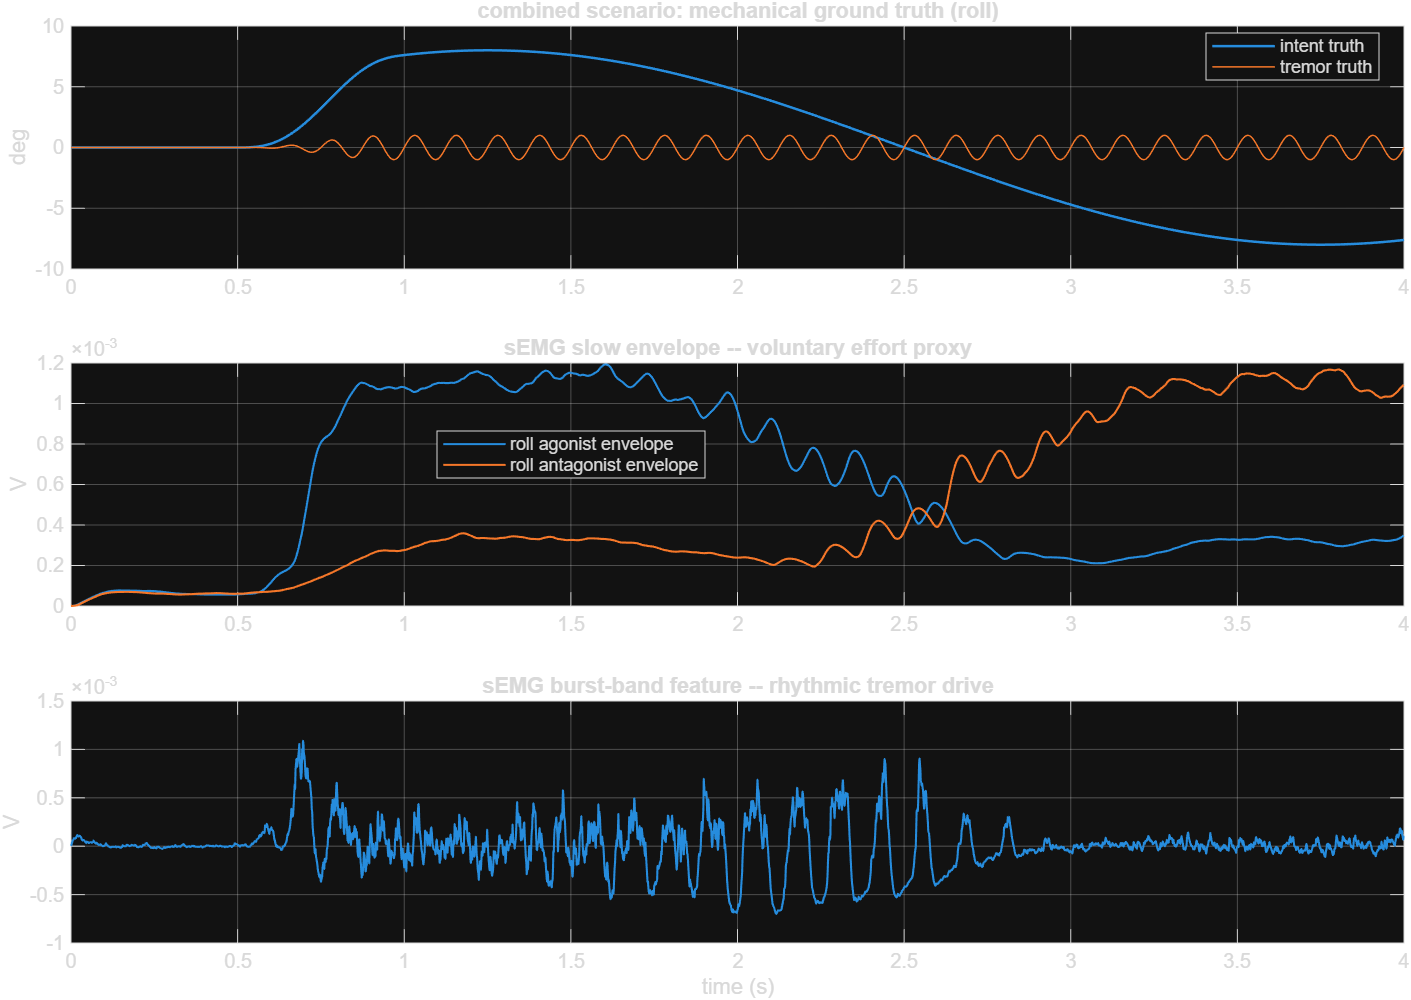
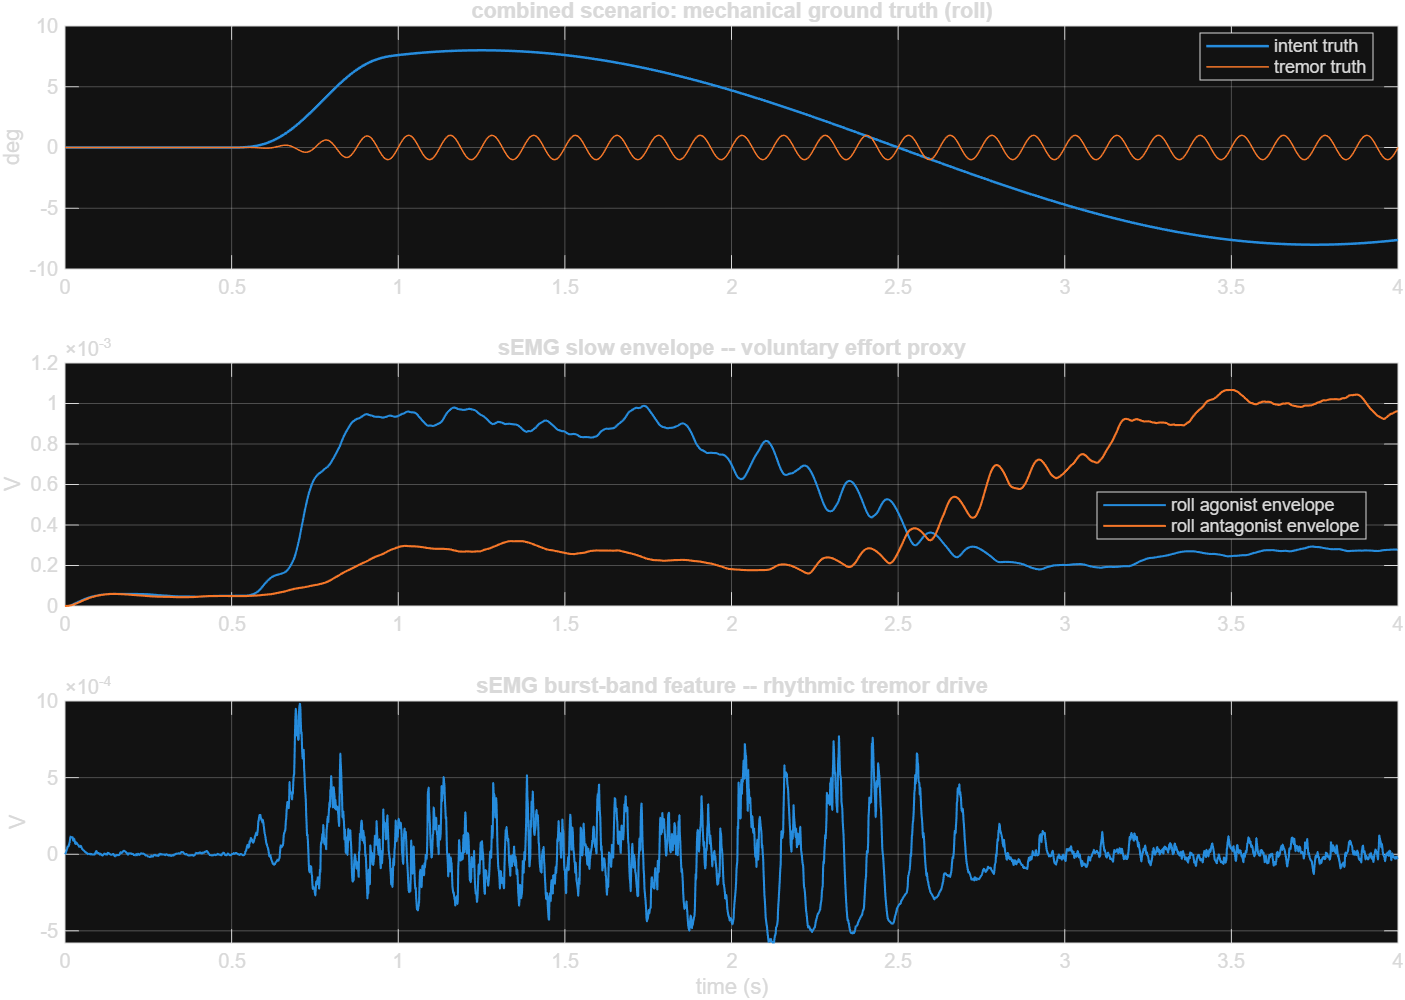
Document the anti-alias stage and the real-dataset format; regenerate results
SEMG_SUBSYSTEM.md 4.2 changes from a gap to a resolved item, and gains 6: the
dataset field contract, the minimum useful dataset, the recording protocol, how
to run the gate, and the thresholds with their synthetic reference values.

Characterisation regenerated after the anti-alias change. SNR 8.0-12.7 dB, lead
35-37.5 ms, burst frequency 7.81-9.38 Hz against a true 8 Hz, separation 8.1x --
unchanged in substance from the pre-filter numbers.

One caveat is recorded prominently rather than buried: the stage-3 cross-talk
reference of |r| = 0.19 is an artefact, not a prediction. The synthetic source
generates channels independently, so it assumes zero cross-talk, while the
agonist/antagonist feature layout rests on reciprocal activation and real
forearm flexors and extensors are closely packed. That stage is the one most
likely to disappoint on real data.

Claude-Session: https://claude.ai/code/session_01XLS5UqoszvcAKReYU6rwD3

diff --git a/docs/SEMG_SUBSYSTEM.md b/docs/SEMG_SUBSYSTEM.md
@@ -167,11 +167,15 @@ sensor module that outputs a pre-rectified envelope (several hobby modules do by
 destroys the burst feature, because rectification must happen after the mains notch and at
 full bandwidth.
 
-> **Gap:** the anti-alias filter is a hardware requirement with **no counterpart in the
-> model**. `rcflex_semg_sample.m` models AC coupling and the ADC but no anti-alias stage,
-> because the synthetic truth is band-limited to 450 Hz by construction and has nothing to
-> alias. Real EMG has content above 450 Hz and the amplifier contributes wideband noise. See
-> §4.2.
+> **Modelled.** `rcflex_semg_sample.m` now implements the anti-alias stage: a 2-pole
+> Butterworth at `C.semg_aa_Hz` = 480 Hz, applied after the gain stage and before sampling.
+>
+> For it to mean anything, the analogue domain is modelled at `C.semg_hz * C.semg_oversample`
+> = 16 kHz and decimated to 4 kHz *after* the filter. Generating straight at 4 kHz would have
+> assumed the band limiting this stage exists to enforce, leaving a decorative block that
+> could never be shown to earn its place. Measured effect of enabling it, on the `combined`
+> scenario: out-of-band residual **8147 → 3126 nV/√Hz** (−8.3 dB) and in-band power fraction
+> **0.756 → 0.908**.
 
 ### 1.8 Synchronisation requirements
 
@@ -345,7 +349,7 @@ recording from a person, including your own arm.
 | `C.semg_ac_couple_Hz = 10` | AC coupling **before** gain | ✅ modelled |
 | `C.semg_gain = 200` | analogue gain | ✅ fixed; zero clipping, 1.6–7.5 dB headroom |
 | AC-coupling settled at start | front end powered up before capture | ✅ fixed; see §1.4 |
-| — | **analogue anti-alias filter** | ❌ **§4.2 — absent from the model** |
+| `C.semg_aa_Hz`, `C.semg_aa_poles` | analogue anti-alias filter | ✅ modelled, with a 4× oversampled analogue domain so it has real out-of-band content to remove |
 | `C.semg_adc_bits/_range_V` | ADC | ✅ modelled, with saturation |
 | `C.semg_hz`, `C.semg.sub` | sample clock and tick alignment | ✅ modelled and asserted |
 | `rcflex_semg_source.m` | the acquisition boundary | ✅ seam exists; `'device'` not implemented |
@@ -363,17 +367,21 @@ class of acquisition defect, so such defects have to be caught by an explicit ch
 than by noticing bad results. That is what `rcflex_semg_quality` is for, and it is why §5.1
 runs first on any real recording.
 
-### 4.2 Missing anti-alias stage
+### 4.2 Anti-alias stage — resolved
 
-`rcflex_semg_sample.m` has no anti-alias filter because the synthetic truth is band-limited
-to 450 Hz and nothing can alias. Real acquisition can and will. Consequence: the model
-currently cannot show what aliasing would do to the features, so it cannot be used to
-justify skipping the analogue filter. Adding a 2-pole 480 Hz stage before the ADC in
-`rcflex_semg_sample.m` would close this and is cheap; it is not required until real data
-arrives, but the hardware requirement stands regardless.
+The chain in `rcflex_semg_sample.m` is now, in physical order:
 
-`rcflex_semg_quality`'s `oob_nV_rtHz` column is the field diagnostic for this: on real data,
-a value far above the amplifier's datasheet noise density means the anti-alias filter is too
+```
+electrode -> corruptions -> AC coupling -> gain -> anti-alias -> decimate -> quantise/clip
+```
+
+Two of those orderings are requirements, not preferences: AC coupling before gain (§1.5),
+and anti-aliasing before sampling. The analogue domain is modelled at 4× the final rate so
+the filter has genuine content above the 2 kHz final Nyquist to remove — the truth
+generator's 450 Hz band limit is only 2-pole, and the corruption noise is white.
+
+`rcflex_semg_quality`'s `oob_nV_rtHz` column remains the field diagnostic: on real data, a
+value far above the amplifier's datasheet noise density means the anti-alias filter is too
 shallow.
 
 ### 4.3 What is already source-agnostic
@@ -470,6 +478,100 @@ change the estimator last.
 
 None of these carry synchronised IMU tremor data with intent labels, which is why §5.5 and
 §5.7 ultimately need our own recording.
+
+---
+
+## 6. Running a real dataset through the pipeline
+
+The recorded-data path is implemented and tested; only the data is missing.
+
+### 6.1 Dataset format
+
+Defined in one place — `rcflex_semg_dataset_spec.m`. Call it with no arguments to get the
+contract as a struct, so a recording or conversion script can target it directly.
+
+**Required**
+
+| Field | Type | Notes |
+|---|---|---|
+| `semg` | n × 4 double | **Electrode-referred volts.** Not ADC counts, not gain-included. Convert with `volts = counts * (adc_range/2^bits) / gain` |
+| `fs` | scalar | Hz. Must be ≥ 900 Hz (= 2 × 450); anything else is regridded to 4 kHz by the loader |
+
+Channel order is `[roll agonist, roll antagonist, pitch agonist, pitch antagonist]`
+= `[FCR, ECRL/B, FCU, ECU]` for the placement in §1.9.
+
+**Optional — each unlocks specific validation stages**
+
+| Field | Unlocks | Notes |
+|---|---|---|
+| `imu_accel` (m × 2), `imu_fs` | stages 4, 5 | Tremor **acceleration**, [roll pitch]. Units arbitrary but consistent — both stages are scale-invariant |
+| `labels` (`t_start`, `t_end`, `class`) | stages 2, 6 | `class` ∈ `rest` / `tremor` / `intent` / `both` |
+| `t0`, `channels`, `subject`, `session`, `device`, `notes` | — | Provenance |
+
+The spec actively rejects the mistakes a real dataset will actually make: a transposed
+matrix, gain-included or ADC-count units (peak |semg| ≥ 0.1 V), the wrong channel count, a
+sample rate below the band requirement, and invalid label classes. Each is covered by
+`tests/test_rcflex_semg_dataset.m`.
+
+### 6.2 Minimum useful dataset
+
+`semg` + `fs` alone runs **stages 1 and 3**. Adding `labels` with at least one tremor-bearing
+and one tremor-free segment adds the **stage 2 go/no-go**. Adding `imu_accel` adds **stages 4
+and 5**, which are the two that decide whether sEMG carries anything the IMU does not.
+
+Nothing here needs a full labelled corpus to start. A public dataset with no IMU and no
+labels still answers the two most likely reasons for early failure — bad acquisition and
+cross-talk.
+
+### 6.3 Recording protocol
+
+Stages 2 and 6 compare conditions, so a single continuous recording of one condition cannot
+answer them — the gate reports SKIPPED rather than inventing a comparison. Record **cued
+trials in one continuous session** with boundaries logged as they happen:
+
+| Trial | Class | Purpose |
+|---|---|---|
+| Rest, arm supported | `rest` | Noise floor and the stage-2 denominator |
+| Tremor, no voluntary motion | `tremor` | Stage-2 numerator; stages 4, 5 |
+| Voluntary reaching, no tremor | `intent` | Stage-6 denominator |
+| Both together | `both` | The operating condition |
+| Isolated flexion, then isolated extension | `intent` | Stage 3 — this is what actually exercises cross-talk |
+
+Logging boundaries by cue at record time is far more reliable than labelling after the fact.
+`protocol_fixture` in `tests/test_rcflex_semg_dataset.m` builds exactly this shape from
+synthetic trials and is the template.
+
+### 6.4 Running it
+
+```matlab
+C = rcflex_control_parameters; C.semg_enabled = true;
+C = rcflex_prepare_control(C);
+R = validate_rcflex_semg_dataset('my_recording.mat', C);
+```
+
+Stages report `PASS`, `FAIL` or **`SKIPPED`**. `SKIPPED` is deliberately distinct from
+`PASS`: a stage that could not run has told you nothing, and reading an absent measurement as
+a satisfied one is the single most expensive mistake available at this point. Results are
+written to `output/results/semg_dataset_validation.csv`.
+
+The synthetic source can be pushed through the identical gate as a control — pass a scenario
+struct from `rcflex_control_case` instead of a dataset.
+
+### 6.5 Thresholds, and what they are read against
+
+| Stage | Criterion | Synthetic reference |
+|---|---|---|
+| 1 Acquisition health | clip < 0.1 %, headroom ≥ 0 dB, band_frac > 0.5, mains < −6 dB | 0 % clip, 4.6–6.3 dB, 0.89–0.90, −12.9 dB |
+| 2 Burst SNR | **> 6 dB** | 8.5 dB (protocol), 8.0–12.7 dB (per-scenario) |
+| 3 Paired cross-talk | \|r\| < 0.6 | 0.19 — but the model **assumes zero cross-talk**, so this reference is not evidence |
+| 4 sEMG lead | 10–100 ms | +35 ms |
+| 5 Frequency agreement | < 1 Hz | 0 Hz |
+| 6 Intent/tremor discrimination | burst/envelope ratio > 2 | 11.0 |
+
+Stage 3 is the one to watch. The synthetic channels are generated independently, so its
+reference value is an artefact of that assumption rather than a prediction. Real forearm
+flexors and extensors are closely packed, and the agonist/antagonist feature layout rests on
+reciprocal activation.
 
 ---
 

diff --git a/docs/CONTROL_IMPROVEMENT_PLAN.md b/docs/CONTROL_IMPROVEMENT_PLAN.md
@@ -634,9 +634,16 @@ Every conclusion below was unchanged by the fixes. That is itself evidence that 
 are robust to acquisition defects, and therefore that such defects must be caught by an
 explicit check (`rcflex_semg_quality`) rather than by noticing bad results.
 
-One requirement remains unmodelled: there is no analogue anti-alias stage, because the
-synthetic source is band-limited by construction and cannot alias. The hardware requirement
-stands regardless; see `SEMG_SUBSYSTEM.md` §4.2.
+The anti-alias stage is now modelled too. `rcflex_semg_sample.m` applies a 2-pole 480 Hz
+filter after the gain stage and before sampling, with the analogue domain modelled at 4× the
+final rate and decimated afterwards — otherwise the model would assume the band limiting the
+filter exists to enforce. Enabling it drops the out-of-band residual by 8.3 dB and raises the
+in-band power fraction from 0.76 to 0.91. See `SEMG_SUBSYSTEM.md` §4.2.
+
+The recorded-data path (`C.semg_source = 'file'`) is implemented and tested against the
+synthetic stream, and `validate_rcflex_semg_dataset.m` runs the six-stage real-data gate.
+The dataset format and recording protocol are in `SEMG_SUBSYSTEM.md` §6. No real data has
+been processed yet, and no fusion work should begin until that gate passes.
 
 ### 10.6 What this evidence does and does not license
 
